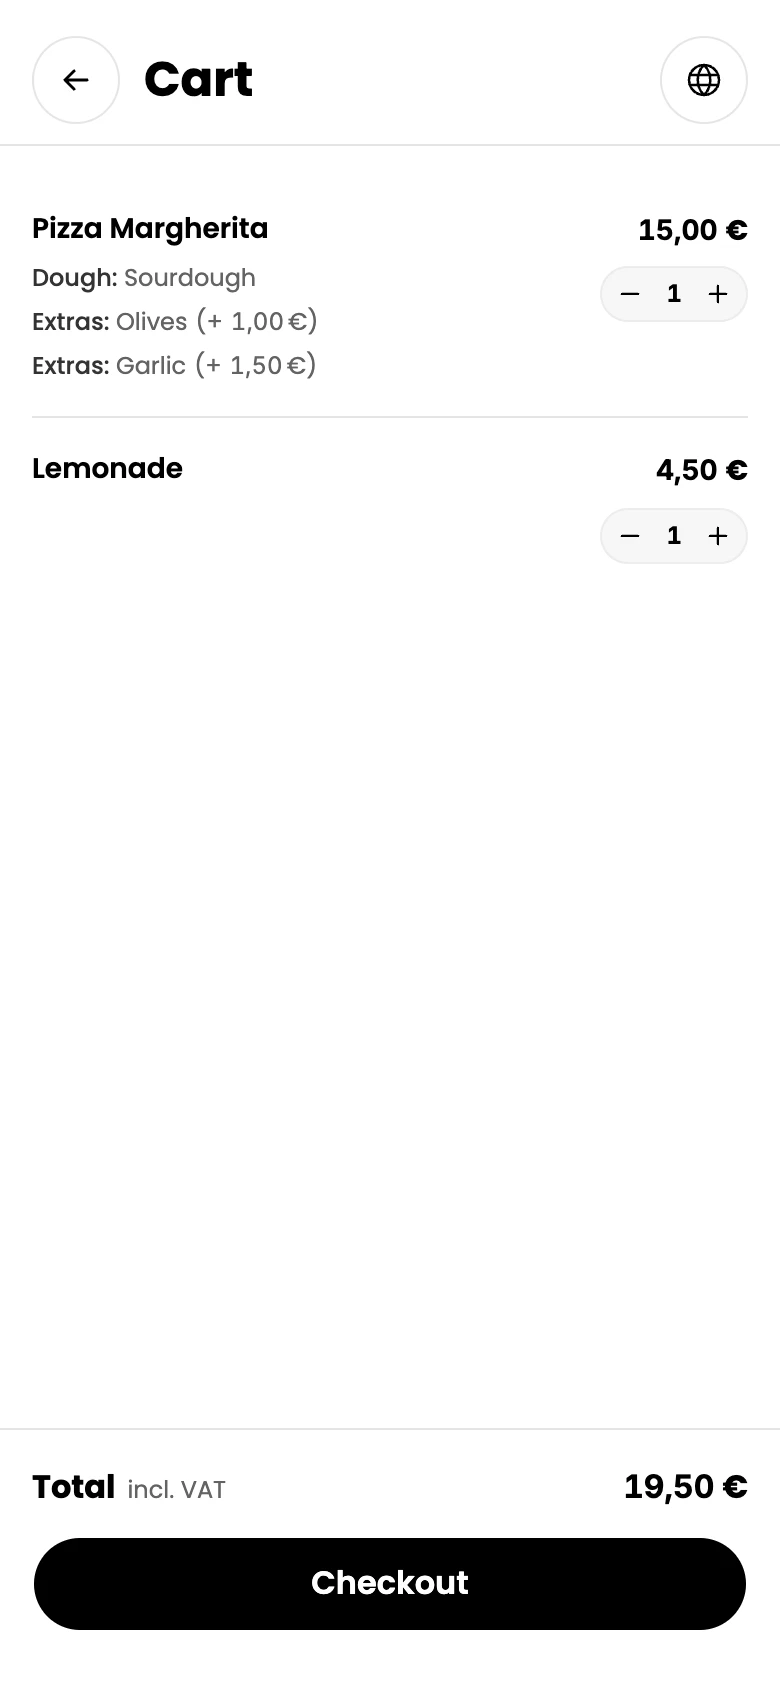
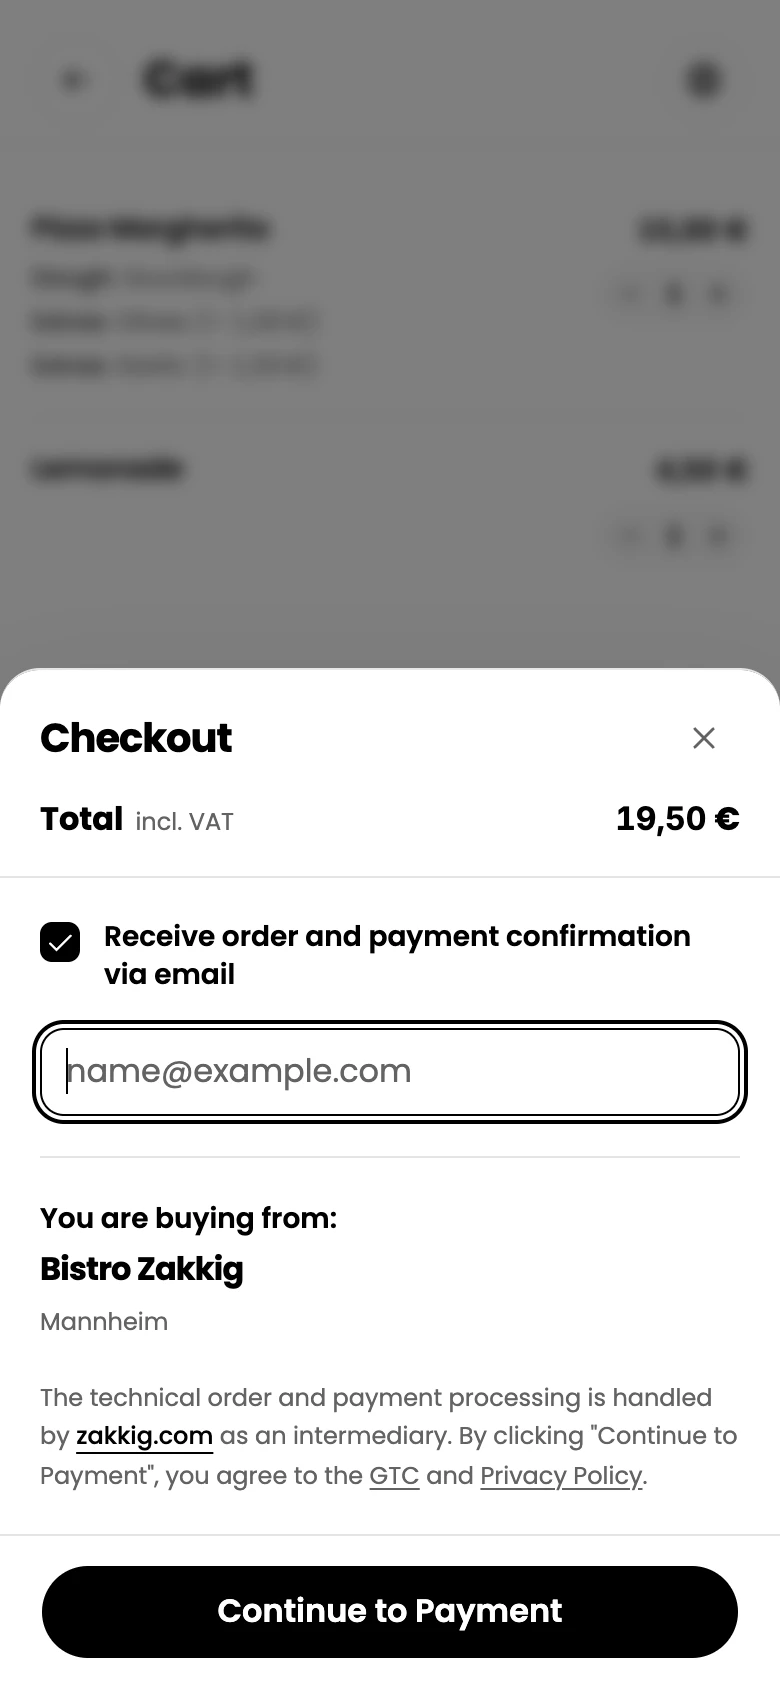
rearranged website sections and updated section alignments and dividers and recaptured product demo phone screens

diff --git a/website/components/MainPage.tsx b/website/components/MainPage.tsx
@@ -81,14 +81,33 @@ export function MainPage() {
         </div>
       </section>
 
-      <WaveLine className="w-[calc(100%-2*var(--site-gutter))] text-black max-w-[1200px] mx-auto" />
- 
-      <section className="mx-auto w-[calc(100%-2*var(--site-gutter))] max-w-[1200px] grid grid-cols-2 gap-24 py-[clamp(72px,9vw,128px)] max-[1100px]:gap-12 max-[600px]:grid-cols-1 max-[600px]:gap-10">
-        <div className="flex flex-col items-center justify-center text-center">
-          <h2 className="whitespace-pre-line text-[clamp(32px,4vw,52px)] font-semibold leading-[1.17] tracking-[-.035em] text-balance">{t("benefitTitle")}</h2>
-          <p className="mx-auto mt-6 max-w-[38ch] text-[15px] leading-relaxed text-muted-foreground">{t("benefitService")}</p>
+      <div className="w-[calc(100%-2*var(--site-gutter))] max-w-[1200px] mx-auto border-t border-border" />
+
+      <section className="mx-auto w-[calc(100%-2*var(--site-gutter))] max-w-[1200px] py-[clamp(72px,9vw,128px)]">
+        <div className="grid grid-cols-2 gap-24 max-[1100px]:gap-12 max-[600px]:grid-cols-1 max-[600px]:gap-10">
+          <div className="flex flex-col items-center justify-center text-center">
+            <h2 className="whitespace-pre-line text-[clamp(32px,4vw,52px)] font-semibold leading-[1.17] tracking-[-.035em] text-balance">{t("setupTitle")}</h2>
+            <p className="mx-auto mt-6 max-w-[38ch] text-[15px] leading-relaxed text-muted-foreground">{t("setupNote")}</p>
+          </div>
+          <ol className="flex w-full flex-col items-center self-center">
+            {steps.map((step, index) => (
+              <li key={step} className="flex w-full max-w-[340px] items-center gap-4 border-b border-border py-7 text-left first:pt-0 last:border-0 last:pb-0">
+                <span className="grid size-7 shrink-0 place-items-center rounded-full bg-primary font-inter text-sm font-semibold text-primary-foreground tabular-nums">{index + 1}</span>
+                <h3 className="text-lg font-semibold leading-[1.4] tracking-[-.02em] text-balance">{t(step)}</h3>
+              </li>
+            ))}
+          </ol>
         </div>
-        <div className="flex flex-col items-center text-center">
+      </section>
+
+      <WaveLine className="w-[calc(100%-2*var(--site-gutter))] text-black max-w-[1200px] mx-auto" />
+
+      <section className="mx-auto w-[calc(100%-2*var(--site-gutter))] max-w-[1200px] grid grid-cols-2 gap-24 py-[clamp(72px,9vw,128px)] max-[1100px]:gap-12 max-[600px]:grid-cols-1 max-[600px]:gap-10">
+        <div className="flex flex-col items-start justify-center text-left">
+          <h2 className="whitespace-pre-line text-[clamp(32px,4vw,52px)] font-semibold leading-[1.17] tracking-[-.035em] text-balance">{t("benefitTitle")}</h2>
+          <p className="mt-6 max-w-[38ch] text-[15px] leading-relaxed text-muted-foreground">{t("benefitService")}</p>
+        </div>
+        <div className="flex flex-col items-center text-center self-center">
           <p className="text-[15px] text-muted-foreground">{t("benefitPrefix")}</p>
           <AnimatedBenefitStat target={30} unit="%" />
           <h3 className="text-lg font-semibold leading-[1.4] tracking-[-.02em]">{t("benefitMetric")}</h3>
@@ -105,29 +124,10 @@ export function MainPage() {
 
       <div className="w-[calc(100%-2*var(--site-gutter))] max-w-[1200px] mx-auto border-t border-border" />
 
-      <section className="mx-auto w-[calc(100%-2*var(--site-gutter))] max-w-[1200px] py-[clamp(72px,9vw,128px)]">
-        <div className="grid grid-cols-2 gap-24 max-[1100px]:gap-12 max-[600px]:grid-cols-1 max-[600px]:gap-10">
-          <div className="flex flex-col items-start justify-center text-left">
-            <h2 className="whitespace-pre-line text-[clamp(32px,4vw,52px)] font-semibold leading-[1.17] tracking-[-.035em] text-balance">{t("setupTitle")}</h2>
-            <p className="mt-6 max-w-[38ch] text-[15px] leading-relaxed text-muted-foreground">{t("setupNote")}</p>
-          </div>
-          <ol className="flex w-full flex-col items-center self-center">
-            {steps.map((step, index) => (
-              <li key={step} className="flex w-full max-w-[340px] items-center gap-4 border-b border-border py-7 text-left first:pt-0 last:border-0 last:pb-0">
-                <span className="grid size-7 shrink-0 place-items-center rounded-full bg-primary font-inter text-sm font-semibold text-primary-foreground tabular-nums">{index + 1}</span>
-                <h3 className="text-lg font-semibold leading-[1.4] tracking-[-.02em] text-balance">{t(step)}</h3>
-              </li>
-            ))}
-          </ol>
-        </div>
-      </section>
-
-      <div className="w-[calc(100%-2*var(--site-gutter))] max-w-[1200px] mx-auto border-t border-border" />
-
       <section className="mx-auto w-[calc(100%-2*var(--site-gutter))] max-w-[1200px] grid grid-cols-2 gap-24 py-[clamp(72px,9vw,128px)] max-[1100px]:gap-12 max-[600px]:grid-cols-1 max-[600px]:gap-10">
-        <div className="flex flex-col items-center text-center justify-center">
+        <div className="flex flex-col items-start justify-center text-left">
           <h2 id="kosten" className="scroll-mt-8 whitespace-pre-line text-[clamp(32px,4vw,52px)] font-semibold leading-[1.17] tracking-[-.035em] text-balance">{t("feeTitle")}</h2>
-          <p className="mx-auto mt-6 max-w-[38ch] text-[15px] leading-relaxed text-muted-foreground">{t("feePromise")}</p>
+          <p className="mt-6 max-w-[38ch] text-[15px] leading-relaxed text-muted-foreground">{t("feePromise")}</p>
         </div>
         <div className="flex flex-col items-center justify-center text-center self-center">
           <div className="flex flex-col items-center text-center gap-1.5 sm:gap-2">

diff --git a/docs/design-system.md b/docs/design-system.md
@@ -67,7 +67,7 @@ The [website QR showcase](../website/components/QrCodeShowcase.tsx) renders a re
 
 [MainPage](../website/components/MainPage.tsx) keeps the editorial hero, QR sheet, product views, setup flow, pricing, FAQ, and signup action. [Header](../website/components/Header.tsx) uses translated native hash links and an accessible mobile menu with Escape dismissal and focus return. [ProductDemo](../website/components/ProductDemo.tsx) renders the committed DE/EN captures at standard iPhone dimensions (`w-[285px] h-[590px]`, 360x780px) and tablet dimensions (`1200x710px`) with collapsed sidebar; the first phone screen capture (`de-scan.webp`, `en-scan.webp`) demonstrates the guest menu with one item added and the bottom floating cart banner; the second phone screen capture (`de-pay.webp`, `en-pay.webp`) demonstrates the open checkout dialog displaying the checked confirmation email toggle, focused email input field, and intermediary disclaimers without active focus rings on the close action. The page uses the shared button roles and 4px scale; static layout is authored in Tailwind JSX, with [global CSS](../website/app/globals.css) reserved for tokens and base behavior. [AnimatedBenefitStat](../website/components/AnimatedBenefitStat.tsx) animates on intersection and jumps to its target under reduced motion.
 
-The website uses viewport composition breakpoints and features a unified 100% light surface hierarchy across all sections and the footer. Zakkig's signature horizontal [WaveLine](../website/components/WaveLine.tsx) dividers in solid black (`text-black`, $16\,\text{px}$ wavelength, $12\,\text{px}$ height, $4.5\,\text{px}$ amplitude) are used exclusively under the 'So einfach funktioniert's' flow section and above the footer; the remaining sections (Benefit to Setup, Setup to Pricing, Pricing to FAQ) are cleanly separated by standard subtle border dividers (`border-t border-border`). On mobile viewports, the [footer](../website/components/SiteFooter.tsx) maintains deliberate breathing room between the MARS enterprise badge and legal links, and reduced distance to the squirrel mascot. Navigation and legal links render with tracked uppercase (`uppercase tracking-[0.08em]`) for distinct wayfinding, while buttons, dialog triggers, and body text use natural casing. Its QR paper shadow is an object treatment, not general elevation. [Page](../website/components/MainPage.tsx), [QR](../website/components/QrCodeShowcase.tsx), [footer](../website/components/SiteFooter.tsx).
+The website uses viewport composition breakpoints and features a unified 100% light surface hierarchy across all sections and the footer. Section sequence follows editorial hero, QR showcase, interactive product flow captures ('So einfach funktioniert's'), setup flow ('Ruckzuck eingerichtet', centered), benefit stat ('Mehr Raum für Umsatz', left-aligned), pricing structure ('Nur wenn bestellt wird', left-aligned), FAQ accordion, and footer. Zakkig's signature horizontal [WaveLine](../website/components/WaveLine.tsx) dividers in solid black (`text-black`, $16\,\text{px}$ wavelength, $12\,\text{px}$ height, $4.5\,\text{px}$ amplitude) are used exclusively under the 'Ruckzuck eingerichtet' setup section and above the footer; the remaining transitions (Ablauf to Setup, Benefit to Pricing, Pricing to FAQ) are cleanly separated by standard subtle border dividers (`border-t border-border`). On mobile viewports, the [footer](../website/components/SiteFooter.tsx) maintains deliberate breathing room between the MARS enterprise badge and legal links, and reduced distance to the squirrel mascot. Navigation and legal links render with tracked uppercase (`uppercase tracking-[0.08em]`) for distinct wayfinding, while buttons, dialog triggers, and body text use natural casing. Its QR paper shadow is an object treatment, not general elevation. [Page](../website/components/MainPage.tsx), [QR](../website/components/QrCodeShowcase.tsx), [footer](../website/components/SiteFooter.tsx).
 
 <a id="ds-i18n"></a>
 ## DS-08: Localization and accessibility

diff --git a/AGENTS.md b/AGENTS.md
@@ -194,7 +194,7 @@ All dialogs, modals, and settings sheets across `webapp` and `website` strictly 
 1. **Light Surface, Signature WaveLine Dividers & Contrast Rule:**
    - The entire webapp and marketing website feature 100% clean light backgrounds (`bg-background text-foreground`). Dark/black backgrounds are NEVER used for full sections or sidebars.
    - The desktop dashboard sidebar and staff terminal sidebar render with light surfaces (`bg-background text-foreground`), a 288px width (`w-72`) ensuring navigation items like 'Aktuelle Bestellungen' are fully written out, black logos (`brightness-0`), and a clean standard vertical border divider (`border-r border-border`) matching the horizontal dividing lines used in the header and footer.
-   - On the marketing website, all sections and the footer render with clean light backgrounds (`bg-background text-foreground`). Zakkig's signature horizontal `WaveLine` dividers (`text-black`) are reserved exclusively under the 'So einfach funktioniert's' flow section and above the footer; the remaining sections (Benefit to Setup, Setup to Pricing, and Pricing to FAQ) are cleanly separated by standard subtle border dividers (`border-t border-border`).
+   - On the marketing website, all sections and the footer render with clean light backgrounds (`bg-background text-foreground`). Zakkig's signature horizontal `WaveLine` dividers (`text-black`) are reserved exclusively under the 'Ruckzuck eingerichtet' setup section and above the footer; the remaining section transitions (Ablauf to Setup, Benefit to Pricing, and Pricing to FAQ) are cleanly separated by standard subtle border dividers (`border-t border-border`).
    - Dark `#000000` is strictly reserved for deliberate focal accents: primary CTA buttons (`bg-primary text-primary-foreground`), active navigation pills, and selected badges.
 
 2. **Numerical Typography Rule (Strictly Digits Only in Inter):**
